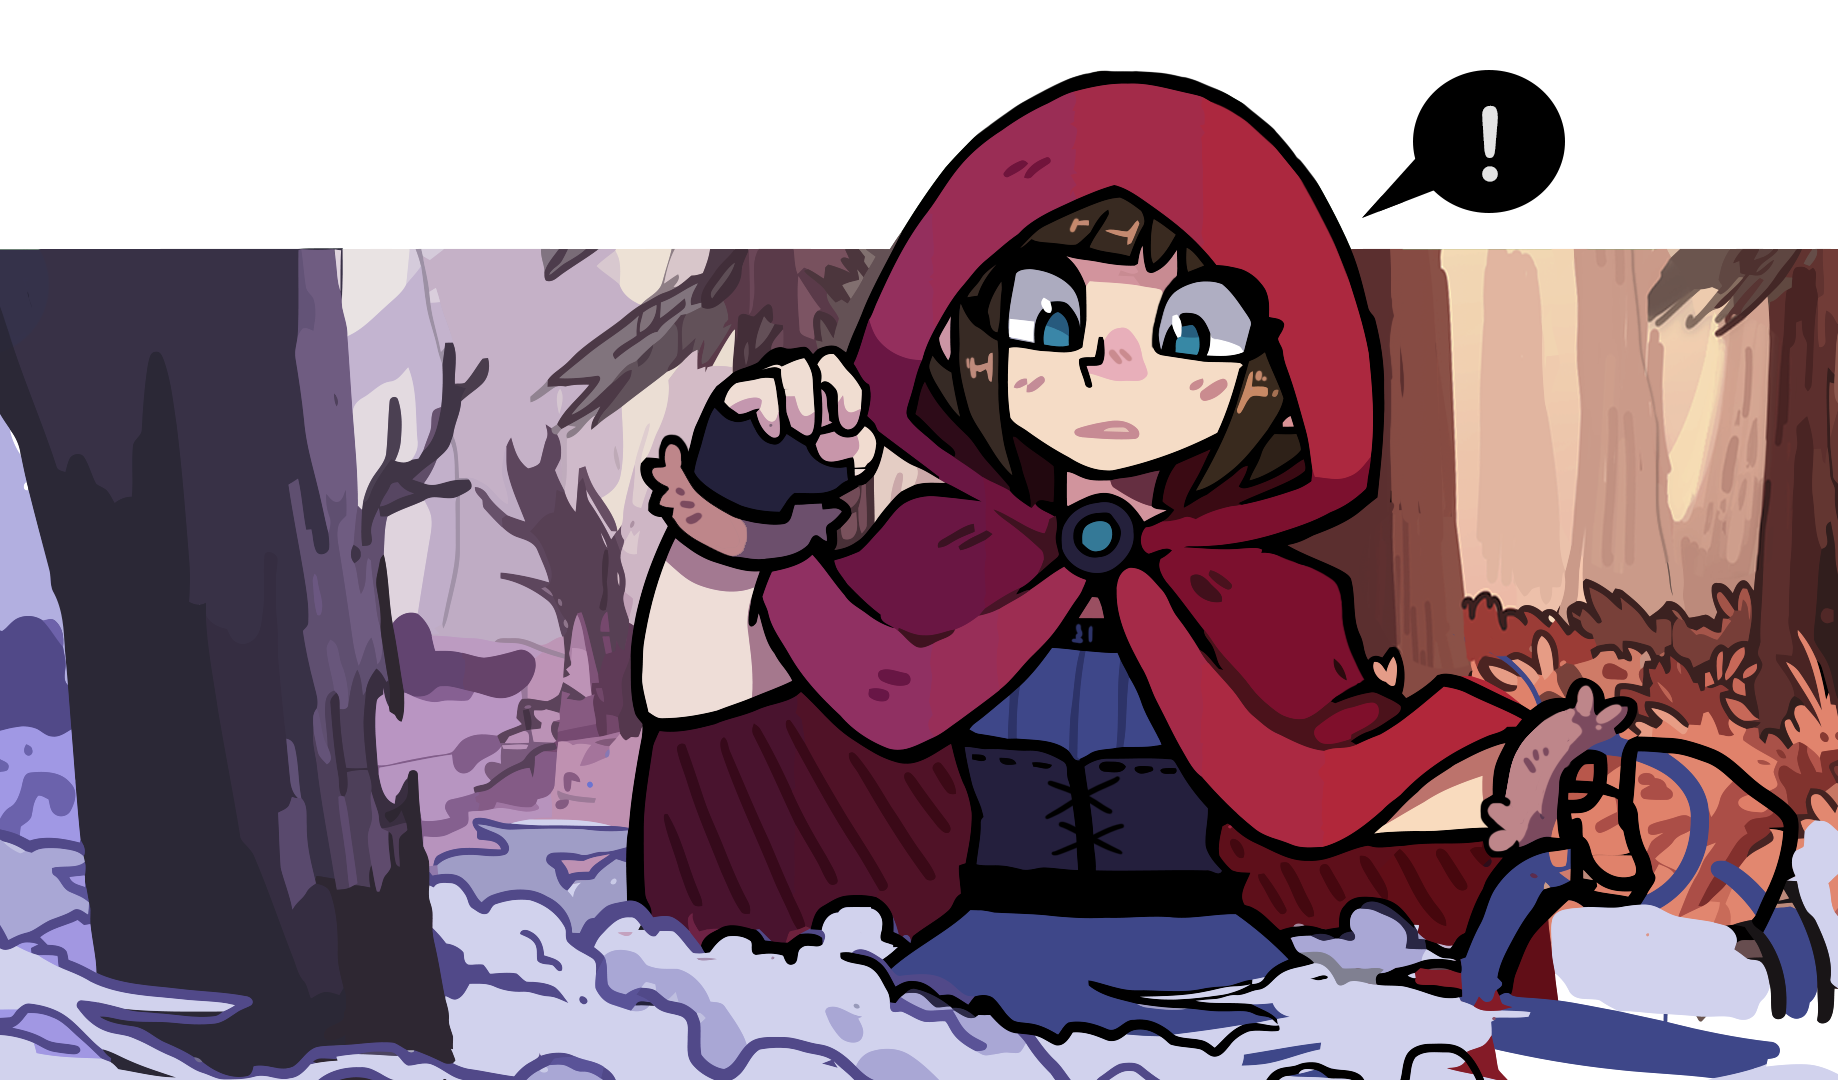
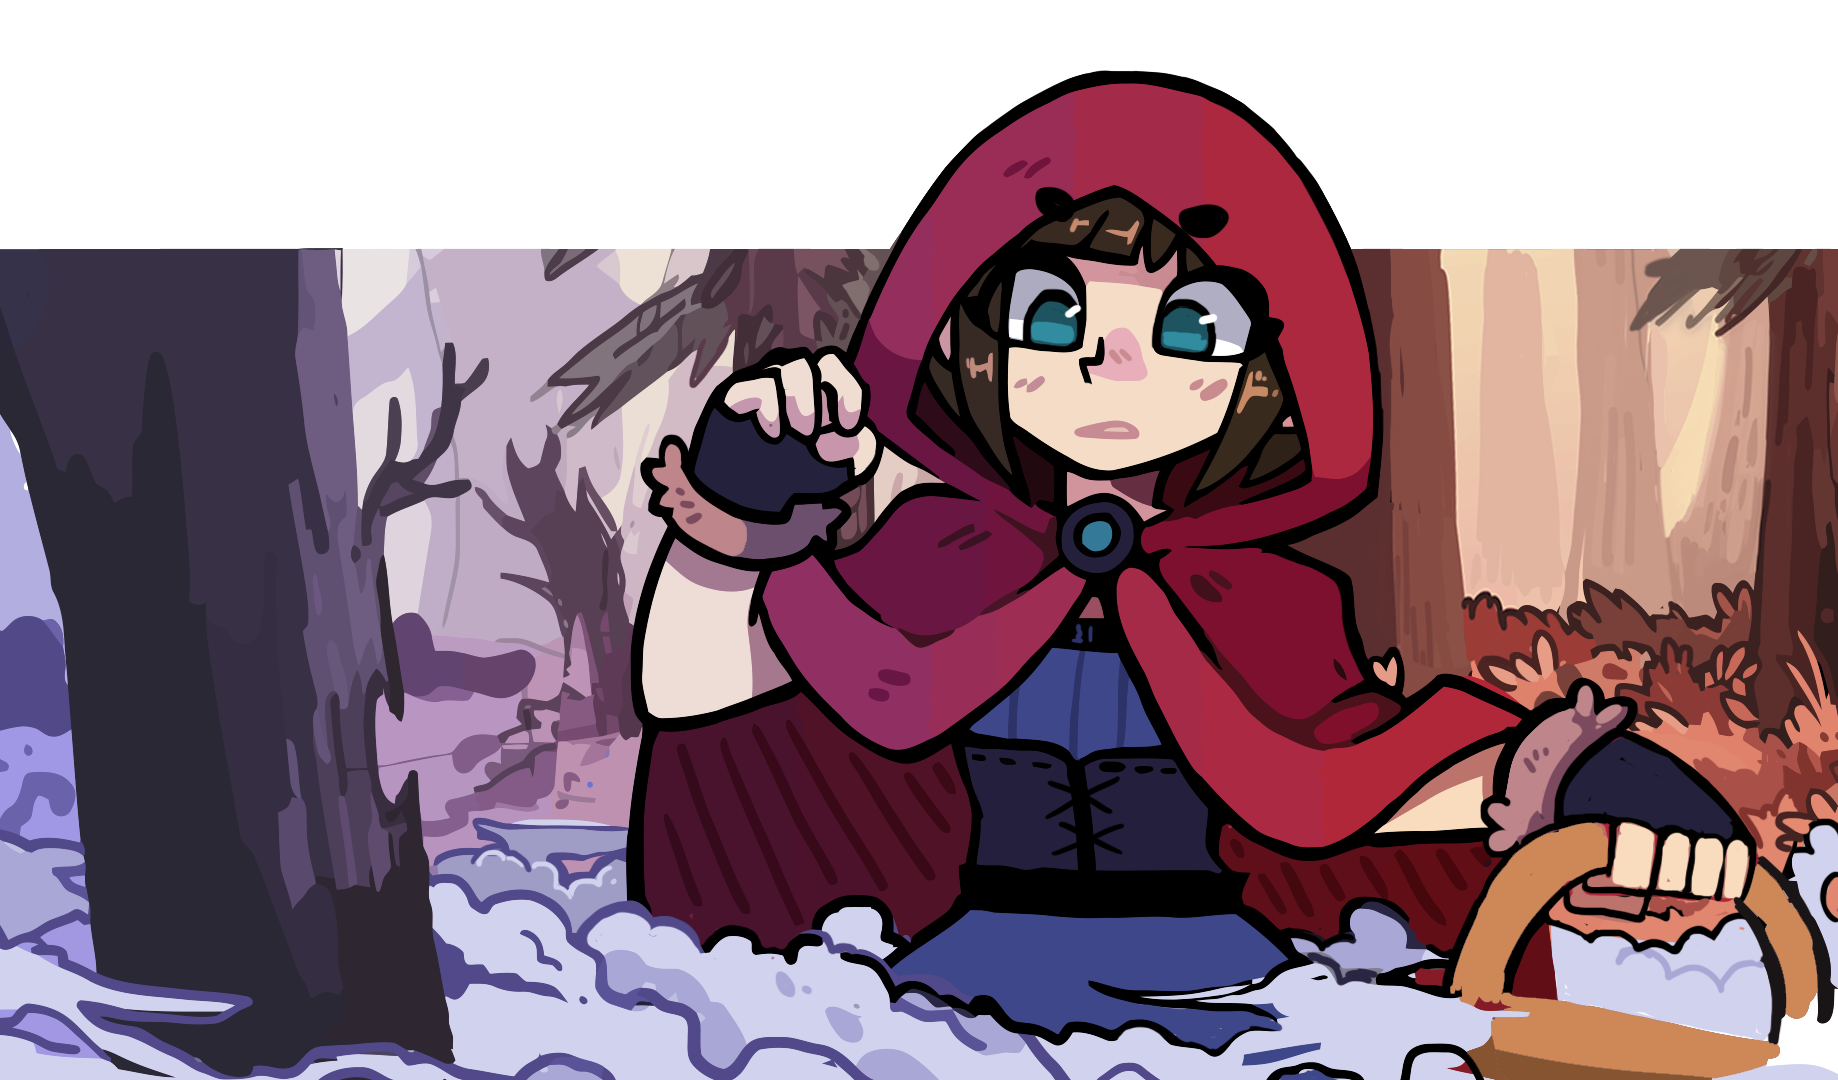
00

diff --git a/red/red.html b/red/red.html
@@ -29,11 +29,14 @@
 <div id="precarga_img_splash" class="preloader" style="margin-left: 15000px; position: fixed;">
   <img   src="img/red.png" width="150px">
   <img src="img/red3.png" width="150px"> 
+  <img src="img/red4.png" width="150px"> 
+  <img src="img/red5.png" width="150px"> 
   <img src="img/animatic.png" width="150px">
   <img src="img/animatic2.png" width="150px"> 
   <img src="img/lobo.png" width="150px"> 
   <img src="img/lobo2.png" width="150px"> 
   <img src="img/fondo.png" width="150px"> 
+  <img src="img/fondo2.png" width="150px"> 
 </div>
 
 
@@ -148,7 +151,7 @@
         nombre="- Lobo -";
         dialogo = "pequeña flor perdida en el bosque, ¿cual es la prisa?";
         //document.getElementById("fondo").style.backgroundImage = "url('img/fondo.png')";
-        document.getElementById("fondo").innerHTML= ' <div id="fondo_img" class="animate__animated animate__fadeIn" style=" background-image: url(img/fondo.png);" ></div>';
+        document.getElementById("fondo").innerHTML= ' <div id="fondo_img" class="animate__animated animate__fadeIn" style=" background-image: url(img/fondo2.png);" ></div>';
         personajes.innerHTML=newPersonaje;
        // $("personaje").css("animation", "none");
        // $( ".personaje" ).css( "animation", "none!important" );
@@ -162,7 +165,7 @@
         i++;  
       break;
       case 4:
-      newPersonaje = `<div class='personaje' style='--h: ${dynamicHeight}px' ><img    src="img/red3.png"  class="animate__animated animate__fadeInRight"  style="height: 100%;width: auto;"></div>`; 
+      newPersonaje = `<div class='personaje' style='--h: ${dynamicHeight}px' ><img    src="img/red5.png"  class="animate__animated animate__fadeInRight"  style="height: 100%;width: auto;"></div>`; 
       personajes.innerHTML=newPersonaje;
         nombre="- Bunny -";
         dialogo = "oh! Disculpe pero no creo traer nada de su gusto.";
